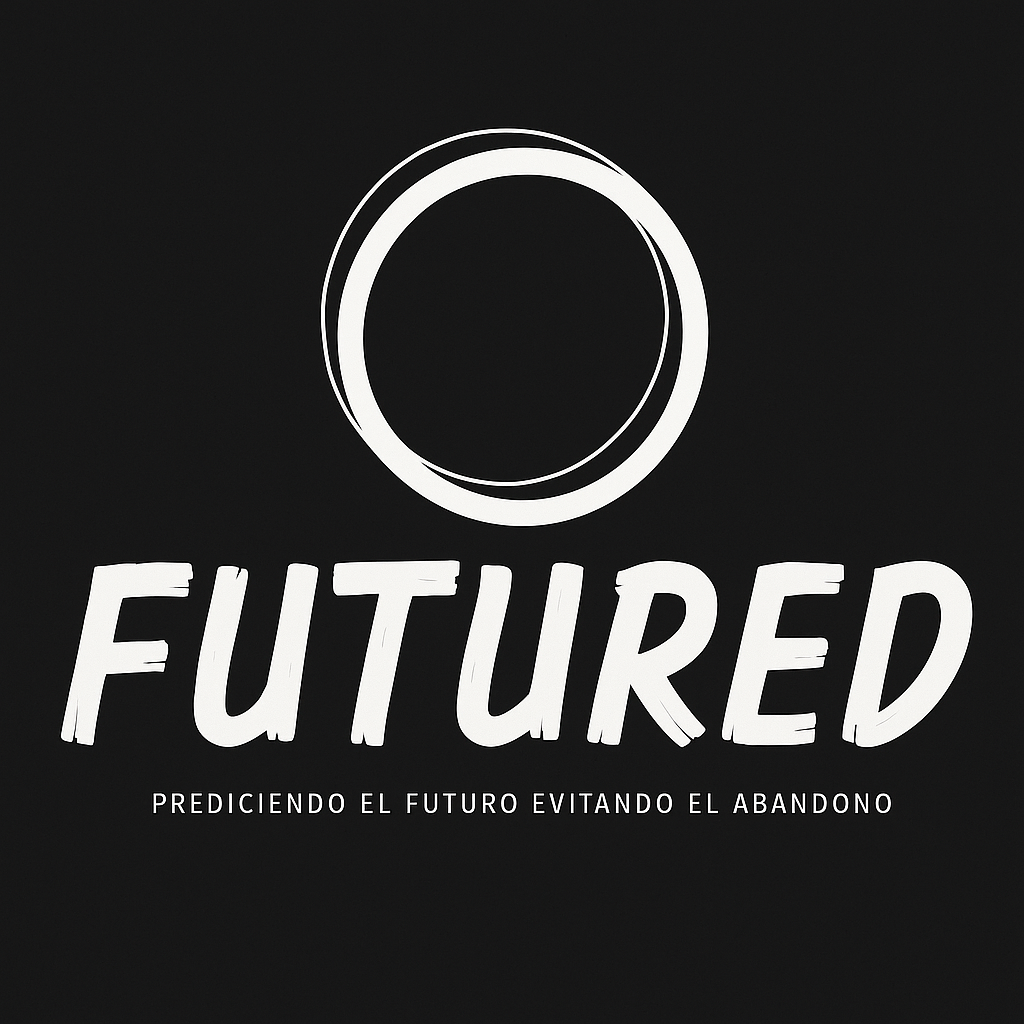
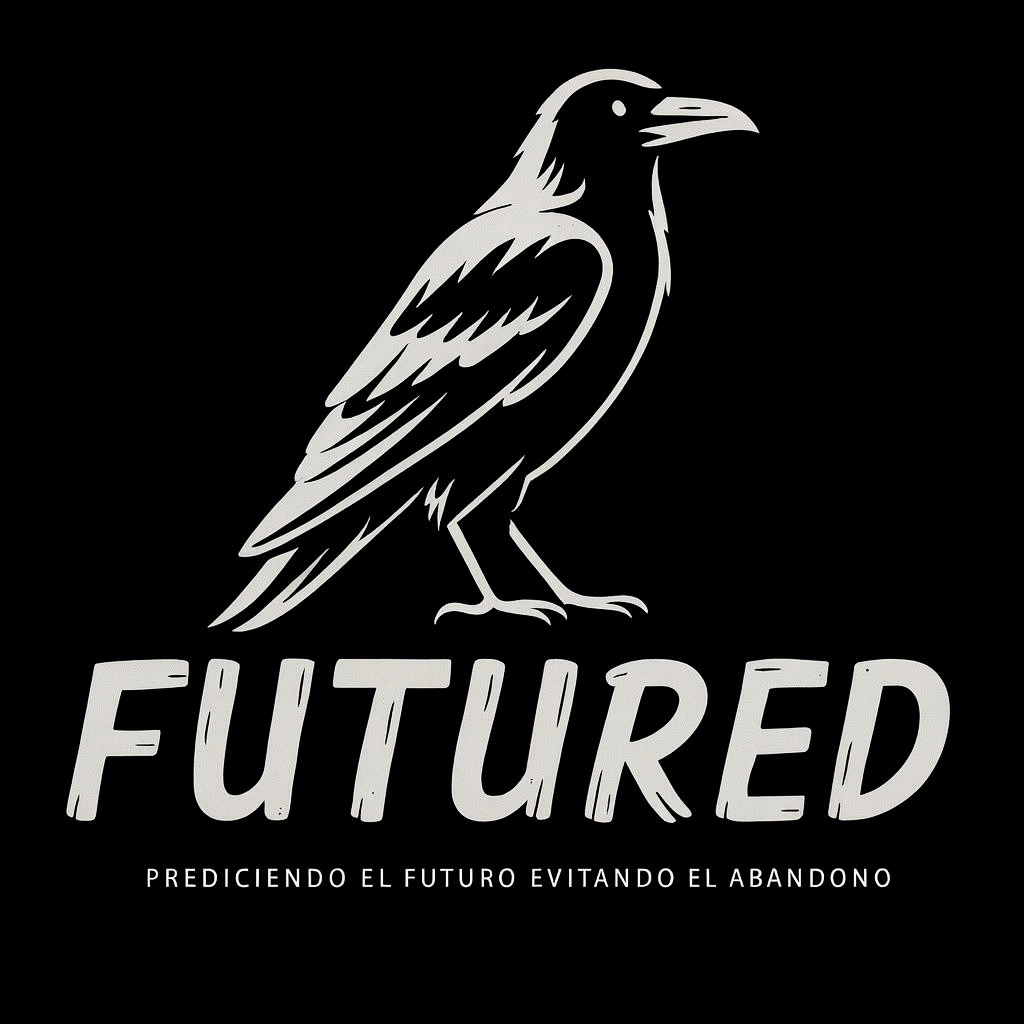
Cambios Diseños Icono e Imagenes

Changed region(s): [[0.0, 0.0625, 1.0, 0.8125], [0.125, 0.8438, 0.875, 0.875]]

diff --git a/resources/views/welcome.blade.php b/resources/views/welcome.blade.php
@@ -6,6 +6,20 @@
     <title>FuturEd – Detección temprana de abandono escolar</title>
     <link href="https://cdnjs.cloudflare.com/ajax/libs/bootstrap/5.3.0/css/bootstrap.min.css" rel="stylesheet">
     <link href="https://cdnjs.cloudflare.com/ajax/libs/font-awesome/6.4.0/css/all.min.css" rel="stylesheet">
+    <link rel="icon" type="image/png" sizes="32x32" href="{{ asset('assets/img/FuturEd2.png') }}">
+    <link rel="icon" type="image/png" sizes="16x16" href="{{ asset('assets/img/FuturEd2.png') }}">
+    <link rel="apple-touch-icon" href="{{ asset('assets/img/FuturEd2.png') }}">
+    <script>
+        (function(){
+            var src='{{ asset('assets/img/FuturEd2.png') }}';
+            var link=document.querySelector('link[rel="icon"]');
+            if(!link){ link=document.createElement('link'); link.rel='icon'; document.head.appendChild(link); }
+            var c=document.createElement('canvas'); var s=64; c.width=s; c.height=s; var ctx=c.getContext('2d');
+            ctx.beginPath(); ctx.arc(s/2, s/2, s/2, 0, Math.PI*2); ctx.closePath(); ctx.clip();
+            var img=new Image(); img.onload=function(){ ctx.drawImage(img, 0, 0, s, s); link.href=c.toDataURL('image/png'); };
+            img.src=src;
+        })();
+    </script>
     <style>
         @import url('https://fonts.googleapis.com/css2?family=Inter:wght@400;600;700;800&display=swap');
 
@@ -98,6 +112,7 @@
             background: #ffffff;
             border-radius: 20px;
             box-shadow: 0 14px 30px rgba(0,0,0,0.08);
+            overflow: hidden;
         }
         .panel-header {
             display: flex; align-items: center; justify-content: space-between;
@@ -110,9 +125,15 @@
         }
         .metric {
             border: 1px solid #eef3ef; border-radius: 16px; padding: 18px;
+            text-align: center;
         }
         .metric h3 { color: var(--green-dark); margin: 0; font-weight: 800; }
         .metric small { color: #7a889b; }
+        .metric .d-flex { flex-wrap: wrap; justify-content: center; }
+        .metric .d-flex span { min-width: 0; overflow-wrap: anywhere; word-break: break-word; font-size: 0.95rem; line-height: 1.2; }
+
+        .panel-centered { margin-left: auto; margin-right: auto; }
+        @media (min-width: 992px) { .panel { max-width: 720px; } }
 
         /* Estadísticas inferiores */
         .stats { color: var(--text); }
@@ -172,16 +193,20 @@
                             <img src="{{ asset('assets/img/FuturEd.png') }}" alt="FUTURED">
                         </div>
                     </div>
-
-                    <div class="panel mt-4">
+                </div>
+            </div>
+            <!-- Panel centrado debajo del contenido principal -->
+            <div class="row mt-4">
+                <div class="col-12 d-flex justify-content-center">
+                    <div class="panel panel-centered mx-auto">
                         <div class="panel-header">
                             <strong>Panel de Análisis</strong>
                             <span class="badge-live">En vivo</span>
                         </div>
                         <div class="p-3">
-                            <div class="row g-3">
+                            <div class="row g-3 justify-content-center">
                                 <div class="col-6 col-md-3">
-                                    <div class="metric">
+                                    <div class="metric text-center">
                                         <div class="d-flex align-items-center gap-2">
                                             <i class="fa-solid fa-triangle-exclamation text-warning"></i>
                                             <span>Alertas Activas</span>
@@ -191,7 +216,7 @@
                                     </div>
                                 </div>
                                 <div class="col-6 col-md-3">
-                                    <div class="metric">
+                                    <div class="metric text-center">
                                         <div class="d-flex align-items-center gap-2">
                                             <i class="fa-regular fa-circle-check text-success"></i>
                                             <span>Retención</span>
@@ -201,7 +226,7 @@
                                     </div>
                                 </div>
                                 <div class="col-6 col-md-3">
-                                    <div class="metric">
+                                    <div class="metric text-center">
                                         <div class="d-flex align-items-center gap-2">
                                             <i class="fa-solid fa-user-group text-primary"></i>
                                             <span>Estudiantes en Riesgo</span>
@@ -211,7 +236,7 @@
                                     </div>
                                 </div>
                                 <div class="col-6 col-md-3">
-                                    <div class="metric">
+                                    <div class="metric text-center">
                                         <div class="d-flex align-items-center gap-2">
                                             <i class="fa-solid fa-chart-column text-info"></i>
                                             <span>Intervenciones</span>
@@ -222,17 +247,7 @@
                                 </div>
                             </div>
 
-                            <!-- Mini gráfico decorativo -->
-                            <div class="mt-3">
-                                <div class="d-flex align-items-end justify-content-between" style="height:120px">
-                                    <div style="width:14%;height:40%;background:linear-gradient(0deg,#d7fbe1,#9ae6b4);border-radius:10px"></div>
-                                    <div style="width:14%;height:60%;background:linear-gradient(0deg,#d7fbe1,#86efac);border-radius:10px"></div>
-                                    <div style="width:14%;height:50%;background:linear-gradient(0deg,#d7fbe1,#86efac);border-radius:10px"></div>
-                                    <div style="width:14%;height:75%;background:linear-gradient(0deg,#d7fbe1,#4ade80);border-radius:10px"></div>
-                                    <div style="width:14%;height:58%;background:linear-gradient(0deg,#d7fbe1,#86efac);border-radius:10px"></div>
-                                    <div style="width:14%;height:85%;background:linear-gradient(0deg,#d7fbe1,#22c55e);border-radius:10px"></div>
-                                </div>
-                            </div>
+                            
                         </div>
                     </div>
                 </div>

diff --git a/resources/views/auth/login.blade.php b/resources/views/auth/login.blade.php
@@ -5,6 +5,20 @@
     <meta name="viewport" content="width=device-width, initial-scale=1.0">
     <title>Iniciar Sesión - Sistema de Tutorías</title>
     <link rel="stylesheet" href="https://cdnjs.cloudflare.com/ajax/libs/font-awesome/6.0.0/css/all.min.css">
+    <link rel="icon" type="image/png" sizes="32x32" href="{{ asset('assets/img/FuturEd2.png') }}">
+    <link rel="icon" type="image/png" sizes="16x16" href="{{ asset('assets/img/FuturEd2.png') }}">
+    <link rel="apple-touch-icon" href="{{ asset('assets/img/FuturEd2.png') }}">
+    <script>
+        (function(){
+            var src='{{ asset('assets/img/FuturEd2.png') }}';
+            var link=document.querySelector('link[rel="icon"]');
+            if(!link){ link=document.createElement('link'); link.rel='icon'; document.head.appendChild(link); }
+            var c=document.createElement('canvas'); var s=64; c.width=s; c.height=s; var ctx=c.getContext('2d');
+            ctx.beginPath(); ctx.arc(s/2, s/2, s/2, 0, Math.PI*2); ctx.closePath(); ctx.clip();
+            var img=new Image(); img.onload=function(){ ctx.drawImage(img, 0, 0, s, s); link.href=c.toDataURL('image/png'); };
+            img.src=src;
+        })();
+    </script>
     <style>
         body { 
             font-family: 'Segoe UI', Tahoma, Geneva, Verdana, sans-serif; 
@@ -288,14 +302,11 @@
                 <button type="submit" class="btn btn-primary">
                     <i class="fas fa-sign-in-alt"></i>Ingresar
                 </button>
-                <a href="{{ route('register') }}" class="btn btn-outline">
-                    <i class="fas fa-user-plus"></i>Registrarse
-                </a>
             </div>
         </form>
         
         <div class="register-link">
-            ¿No tienes una cuenta? <a href="{{ route('register') }}">Regístrate aquí</a>
+            ¿No tienes una cuenta?, Acude con el director de carrera
         </div>
         
         <div class="footer-text">

diff --git a/resources/views/admin/calendario.blade.php b/resources/views/admin/calendario.blade.php
@@ -8,6 +8,10 @@
     <link href="https://cdnjs.cloudflare.com/ajax/libs/bootstrap/5.3.2/css/bootstrap.min.css" rel="stylesheet">
     <link rel="stylesheet" href="https://cdnjs.cloudflare.com/ajax/libs/font-awesome/6.4.0/css/all.min.css">
     <link href="https://fonts.googleapis.com/css2?family=Inter:wght@300;400;500;600;700&display=swap" rel="stylesheet">
+    <link rel="icon" type="image/png" sizes="32x32" href="{{ asset('assets/img/FuturEd2.png') }}">
+    <link rel="icon" type="image/png" sizes="16x16" href="{{ asset('assets/img/FuturEd2.png') }}">
+    <link rel="apple-touch-icon" href="{{ asset('assets/img/FuturEd2.png') }}">
+    <script>(function(){var src='{{ asset('assets/img/FuturEd2.png') }}';var l=document.querySelector('link[rel="icon"]');if(!l){l=document.createElement('link');l.rel='icon';document.head.appendChild(l);}var c=document.createElement('canvas');var s=64;c.width=s;c.height=s;var x=c.getContext('2d');x.beginPath();x.arc(s/2,s/2,s/2,0,Math.PI*2);x.closePath();x.clip();var i=new Image();i.onload=function(){x.drawImage(i,0,0,s,s);l.href=c.toDataURL('image/png');};i.src=src;})();</script>
     <style>
         :root { --green:#22c55e; --green-dark:#16a34a; --text:#0b1321; --muted:#475569; --border:#e2e8f0; }
         *{box-sizing:border-box}

diff --git a/resources/views/admin/carrera/dashboard.blade.php b/resources/views/admin/carrera/dashboard.blade.php
@@ -8,6 +8,10 @@
     <link href="https://cdnjs.cloudflare.com/ajax/libs/bootstrap/5.3.2/css/bootstrap.min.css" rel="stylesheet">
     <link href="https://cdnjs.cloudflare.com/ajax/libs/font-awesome/6.4.0/css/all.min.css" rel="stylesheet">
     <link href="https://fonts.googleapis.com/css2?family=Inter:wght@300;400;500;600;700&display=swap" rel="stylesheet">
+    <link rel="icon" type="image/png" sizes="32x32" href="{{ asset('assets/img/FuturEd2.png') }}">
+    <link rel="icon" type="image/png" sizes="16x16" href="{{ asset('assets/img/FuturEd2.png') }}">
+    <link rel="apple-touch-icon" href="{{ asset('assets/img/FuturEd2.png') }}">
+    <script>(function(){var src='{{ asset('assets/img/FuturEd2.png') }}';var l=document.querySelector('link[rel="icon"]');if(!l){l=document.createElement('link');l.rel='icon';document.head.appendChild(l);}var c=document.createElement('canvas');var s=64;c.width=s;c.height=s;var x=c.getContext('2d');x.beginPath();x.arc(s/2,s/2,s/2,0,Math.PI*2);x.closePath();x.clip();var i=new Image();i.onload=function(){x.drawImage(i,0,0,s,s);l.href=c.toDataURL('image/png');};i.src=src;})();</script>
     <style>
         :root { --green:#22c55e; --green-dark:#16a34a; --text:#0b1321; --muted:#475569; --border:#e2e8f0; }
         *{box-sizing:border-box}

diff --git a/resources/views/admin/carrera/estudiantes.blade.php b/resources/views/admin/carrera/estudiantes.blade.php
@@ -8,6 +8,10 @@
     <link href="https://cdnjs.cloudflare.com/ajax/libs/bootstrap/5.3.2/css/bootstrap.min.css" rel="stylesheet">
     <link href="https://cdnjs.cloudflare.com/ajax/libs/font-awesome/6.4.0/css/all.min.css" rel="stylesheet">
     <link href="https://fonts.googleapis.com/css2?family=Inter:wght@300;400;500;600;700&display=swap" rel="stylesheet">
+    <link rel="icon" type="image/png" sizes="32x32" href="{{ asset('assets/img/FuturEd2.png') }}">
+    <link rel="icon" type="image/png" sizes="16x16" href="{{ asset('assets/img/FuturEd2.png') }}">
+    <link rel="apple-touch-icon" href="{{ asset('assets/img/FuturEd2.png') }}">
+    <script>(function(){var src='{{ asset('assets/img/FuturEd2.png') }}';var l=document.querySelector('link[rel="icon"]');if(!l){l=document.createElement('link');l.rel='icon';document.head.appendChild(l);}var c=document.createElement('canvas');var s=64;c.width=s;c.height=s;var x=c.getContext('2d');x.beginPath();x.arc(s/2,s/2,s/2,0,Math.PI*2);x.closePath();x.clip();var i=new Image();i.onload=function(){x.drawImage(i,0,0,s,s);l.href=c.toDataURL('image/png');};i.src=src;})();</script>
     <style>
         :root { --green:#22c55e; --green-dark:#16a34a; --text:#0b1321; --muted:#475569; --border:#e2e8f0; }
         *{box-sizing:border-box}

diff --git a/resources/views/admin/carrera/tutores.blade.php b/resources/views/admin/carrera/tutores.blade.php
@@ -8,6 +8,10 @@
     <link href="https://cdnjs.cloudflare.com/ajax/libs/bootstrap/5.3.2/css/bootstrap.min.css" rel="stylesheet">
     <link href="https://cdnjs.cloudflare.com/ajax/libs/font-awesome/6.4.0/css/all.min.css" rel="stylesheet">
     <link href="https://fonts.googleapis.com/css2?family=Inter:wght@300;400;500;600;700&display=swap" rel="stylesheet">
+    <link rel="icon" type="image/png" sizes="32x32" href="{{ asset('assets/img/FuturEd2.png') }}">
+    <link rel="icon" type="image/png" sizes="16x16" href="{{ asset('assets/img/FuturEd2.png') }}">
+    <link rel="apple-touch-icon" href="{{ asset('assets/img/FuturEd2.png') }}">
+    <script>(function(){var src='{{ asset('assets/img/FuturEd2.png') }}';var l=document.querySelector('link[rel="icon"]');if(!l){l=document.createElement('link');l.rel='icon';document.head.appendChild(l);}var c=document.createElement('canvas');var s=64;c.width=s;c.height=s;var x=c.getContext('2d');x.beginPath();x.arc(s/2,s/2,s/2,0,Math.PI*2);x.closePath();x.clip();var i=new Image();i.onload=function(){x.drawImage(i,0,0,s,s);l.href=c.toDataURL('image/png');};i.src=src;})();</script>
     <style>
         :root { --green:#22c55e; --green-dark:#16a34a; --text:#0b1321; --muted:#475569; --border:#e2e8f0; }
         *{box-sizing:border-box}

diff --git a/resources/views/admin/grupos-asignar.blade.php b/resources/views/admin/grupos-asignar.blade.php
@@ -8,6 +8,10 @@
     <link href="https://cdnjs.cloudflare.com/ajax/libs/bootstrap/5.3.2/css/bootstrap.min.css" rel="stylesheet">
     <link href="https://cdnjs.cloudflare.com/ajax/libs/font-awesome/6.4.0/css/all.min.css" rel="stylesheet">
     <link href="https://fonts.googleapis.com/css2?family=Inter:wght@300;400;500;600;700&display=swap" rel="stylesheet">
+    <link rel="icon" type="image/png" sizes="32x32" href="{{ asset('assets/img/FuturEd2.png') }}">
+    <link rel="icon" type="image/png" sizes="16x16" href="{{ asset('assets/img/FuturEd2.png') }}">
+    <link rel="apple-touch-icon" href="{{ asset('assets/img/FuturEd2.png') }}">
+    <script>(function(){var src='{{ asset('assets/img/FuturEd2.png') }}';var l=document.querySelector('link[rel="icon"]');if(!l){l=document.createElement('link');l.rel='icon';document.head.appendChild(l);}var c=document.createElement('canvas');var s=64;c.width=s;c.height=s;var x=c.getContext('2d');x.beginPath();x.arc(s/2,s/2,s/2,0,Math.PI*2);x.closePath();x.clip();var i=new Image();i.onload=function(){x.drawImage(i,0,0,s,s);l.href=c.toDataURL('image/png');};i.src=src;})();</script>
     <style>
         :root { --green:#22c55e; --green-dark:#16a34a; --text:#0b1321; --muted:#475569; --border:#e2e8f0; }
         *{box-sizing:border-box}

diff --git a/resources/views/admin/notificaciones.blade.php b/resources/views/admin/notificaciones.blade.php
@@ -8,6 +8,10 @@
     <link href="https://cdnjs.cloudflare.com/ajax/libs/bootstrap/5.3.2/css/bootstrap.min.css" rel="stylesheet">
     <link rel="stylesheet" href="https://cdnjs.cloudflare.com/ajax/libs/font-awesome/6.4.0/css/all.min.css">
     <link href="https://fonts.googleapis.com/css2?family=Inter:wght@300;400;500;600;700&display=swap" rel="stylesheet">
+    <link rel="icon" type="image/png" sizes="32x32" href="{{ asset('assets/img/FuturEd2.png') }}">
+    <link rel="icon" type="image/png" sizes="16x16" href="{{ asset('assets/img/FuturEd2.png') }}">
+    <link rel="apple-touch-icon" href="{{ asset('assets/img/FuturEd2.png') }}">
+    <script>(function(){var src='{{ asset('assets/img/FuturEd2.png') }}';var l=document.querySelector('link[rel="icon"]');if(!l){l=document.createElement('link');l.rel='icon';document.head.appendChild(l);}var c=document.createElement('canvas');var s=64;c.width=s;c.height=s;var x=c.getContext('2d');x.beginPath();x.arc(s/2,s/2,s/2,0,Math.PI*2);x.closePath();x.clip();var i=new Image();i.onload=function(){x.drawImage(i,0,0,s,s);l.href=c.toDataURL('image/png');};i.src=src;})();</script>
     <style>
         :root { --green:#22c55e; --green-dark:#16a34a; --text:#0b1321; --muted:#475569; --border:#e2e8f0; }
         *{box-sizing:border-box}

diff --git a/resources/views/admin/perfil.blade.php b/resources/views/admin/perfil.blade.php
@@ -8,6 +8,10 @@
     <link href="https://cdnjs.cloudflare.com/ajax/libs/bootstrap/5.3.2/css/bootstrap.min.css" rel="stylesheet">
     <link href="https://cdnjs.cloudflare.com/ajax/libs/font-awesome/6.4.0/css/all.min.css" rel="stylesheet">
     <link href="https://fonts.googleapis.com/css2?family=Inter:wght@300;400;500;600;700&display=swap" rel="stylesheet">
+    <link rel="icon" type="image/png" sizes="32x32" href="{{ asset('assets/img/FuturEd2.png') }}">
+    <link rel="icon" type="image/png" sizes="16x16" href="{{ asset('assets/img/FuturEd2.png') }}">
+    <link rel="apple-touch-icon" href="{{ asset('assets/img/FuturEd2.png') }}">
+    <script>(function(){var src='{{ asset('assets/img/FuturEd2.png') }}';var l=document.querySelector('link[rel="icon"]');if(!l){l=document.createElement('link');l.rel='icon';document.head.appendChild(l);}var c=document.createElement('canvas');var s=64;c.width=s;c.height=s;var x=c.getContext('2d');x.beginPath();x.arc(s/2,s/2,s/2,0,Math.PI*2);x.closePath();x.clip();var i=new Image();i.onload=function(){x.drawImage(i,0,0,s,s);l.href=c.toDataURL('image/png');};i.src=src;})();</script>
     <style>
         :root { --green:#22c55e; --green-dark:#16a34a; --text:#0b1321; --muted:#475569; --border:#e2e8f0; }
         *{box-sizing:border-box}

diff --git a/resources/views/admin/reportes.blade.php b/resources/views/admin/reportes.blade.php
@@ -8,6 +8,10 @@
     <link href="https://cdnjs.cloudflare.com/ajax/libs/bootstrap/5.3.2/css/bootstrap.min.css" rel="stylesheet">
     <link rel="stylesheet" href="https://cdnjs.cloudflare.com/ajax/libs/font-awesome/6.4.0/css/all.min.css">
     <link href="https://fonts.googleapis.com/css2?family=Inter:wght@300;400;500;600;700&display=swap" rel="stylesheet">
+    <link rel="icon" type="image/png" sizes="32x32" href="{{ asset('assets/img/FuturEd2.png') }}">
+    <link rel="icon" type="image/png" sizes="16x16" href="{{ asset('assets/img/FuturEd2.png') }}">
+    <link rel="apple-touch-icon" href="{{ asset('assets/img/FuturEd2.png') }}">
+    <script>(function(){var src='{{ asset('assets/img/FuturEd2.png') }}';var l=document.querySelector('link[rel="icon"]');if(!l){l=document.createElement('link');l.rel='icon';document.head.appendChild(l);}var c=document.createElement('canvas');var s=64;c.width=s;c.height=s;var x=c.getContext('2d');x.beginPath();x.arc(s/2,s/2,s/2,0,Math.PI*2);x.closePath();x.clip();var i=new Image();i.onload=function(){x.drawImage(i,0,0,s,s);l.href=c.toDataURL('image/png');};i.src=src;})();</script>
     <style>
         :root { --green:#22c55e; --green-dark:#16a34a; --text:#0b1321; --muted:#475569; --border:#e2e8f0; }
         *{box-sizing:border-box}

diff --git a/resources/views/admin/users.blade.php b/resources/views/admin/users.blade.php
@@ -8,6 +8,10 @@
     <link href="https://cdnjs.cloudflare.com/ajax/libs/bootstrap/5.3.2/css/bootstrap.min.css" rel="stylesheet">
     <link href="https://cdnjs.cloudflare.com/ajax/libs/font-awesome/6.4.0/css/all.min.css" rel="stylesheet">
     <link href="https://fonts.googleapis.com/css2?family=Inter:wght@300;400;500;600;700&display=swap" rel="stylesheet">
+    <link rel="icon" type="image/png" sizes="32x32" href="{{ asset('assets/img/FuturEd2.png') }}">
+    <link rel="icon" type="image/png" sizes="16x16" href="{{ asset('assets/img/FuturEd2.png') }}">
+    <link rel="apple-touch-icon" href="{{ asset('assets/img/FuturEd2.png') }}">
+    <script>(function(){var src='{{ asset('assets/img/FuturEd2.png') }}';var l=document.querySelector('link[rel="icon"]');if(!l){l=document.createElement('link');l.rel='icon';document.head.appendChild(l);}var c=document.createElement('canvas');var s=64;c.width=s;c.height=s;var x=c.getContext('2d');x.beginPath();x.arc(s/2,s/2,s/2,0,Math.PI*2);x.closePath();x.clip();var i=new Image();i.onload=function(){x.drawImage(i,0,0,s,s);l.href=c.toDataURL('image/png');};i.src=src;})();</script>
     <style>
         :root { --green:#22c55e; --green-dark:#16a34a; --text:#0b1321; --muted:#475569; --border:#e2e8f0; }
         *{box-sizing:border-box}

diff --git a/resources/views/tutor/perfil.blade.php b/resources/views/tutor/perfil.blade.php
@@ -7,6 +7,10 @@
     <link href="https://cdnjs.cloudflare.com/ajax/libs/bootstrap/5.3.2/css/bootstrap.min.css" rel="stylesheet">
     <link href="https://cdnjs.cloudflare.com/ajax/libs/font-awesome/6.4.0/css/all.min.css" rel="stylesheet">
     <link href="https://fonts.googleapis.com/css2?family=Inter:wght@300;400;500;600;700&display=swap" rel="stylesheet">
+    <link rel="icon" type="image/png" sizes="32x32" href="{{ asset('assets/img/FuturEd2.png') }}">
+    <link rel="icon" type="image/png" sizes="16x16" href="{{ asset('assets/img/FuturEd2.png') }}">
+    <link rel="apple-touch-icon" href="{{ asset('assets/img/FuturEd2.png') }}">
+    <script>(function(){var src='{{ asset('assets/img/FuturEd2.png') }}';var l=document.querySelector('link[rel="icon"]');if(!l){l=document.createElement('link');l.rel='icon';document.head.appendChild(l);}var c=document.createElement('canvas');var s=64;c.width=s;c.height=s;var x=c.getContext('2d');x.beginPath();x.arc(s/2,s/2,s/2,0,Math.PI*2);x.closePath();x.clip();var i=new Image();i.onload=function(){x.drawImage(i,0,0,s,s);l.href=c.toDataURL('image/png');};i.src=src;})();</script>
     <style>
         :root { --green:#22c55e; --green-dark:#16a34a; --text:#0b1321; --muted:#475569; --border:#e2e8f0; }
         *{box-sizing:border-box}
